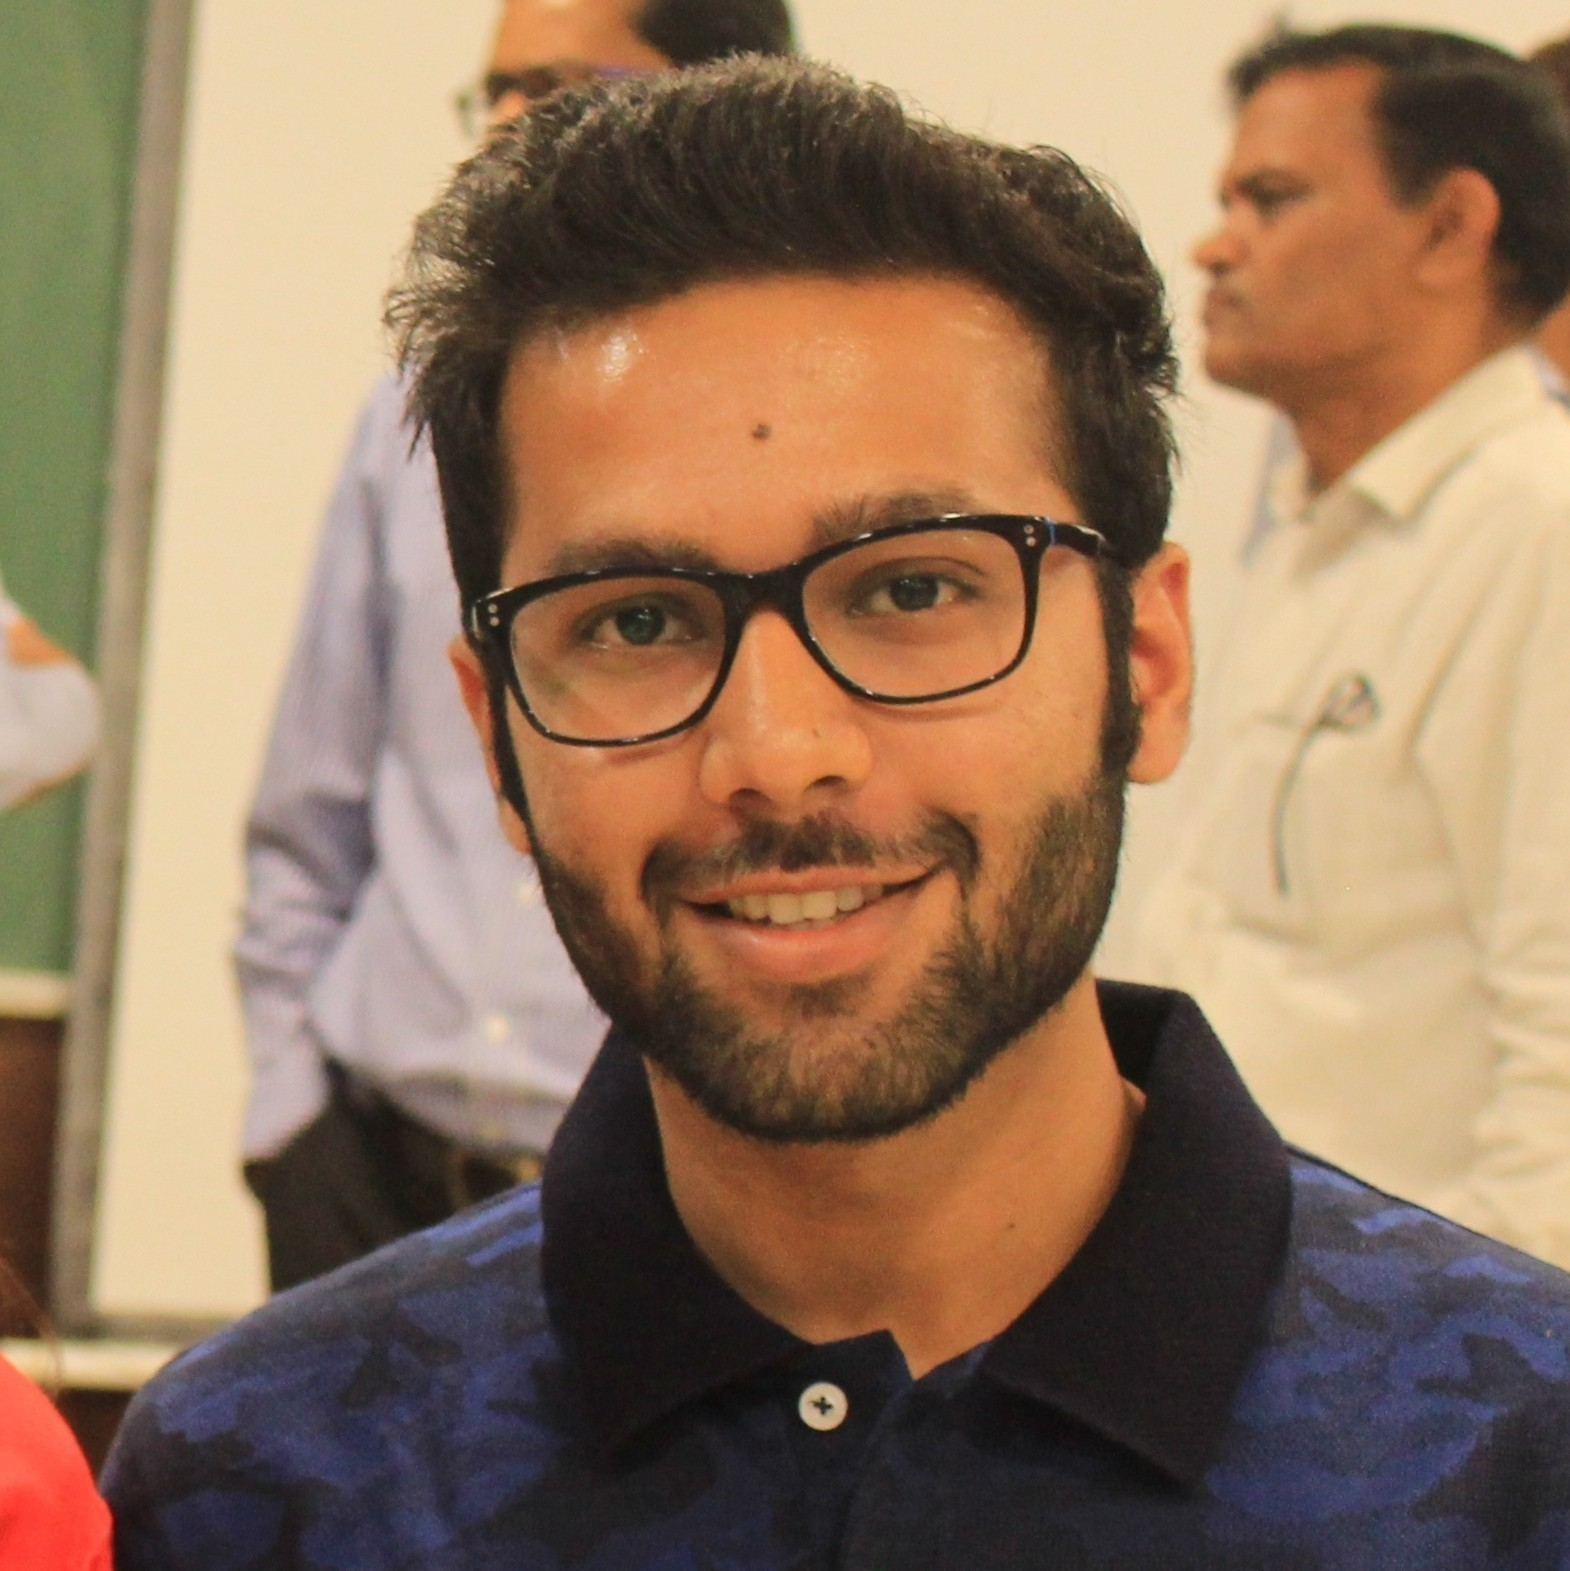
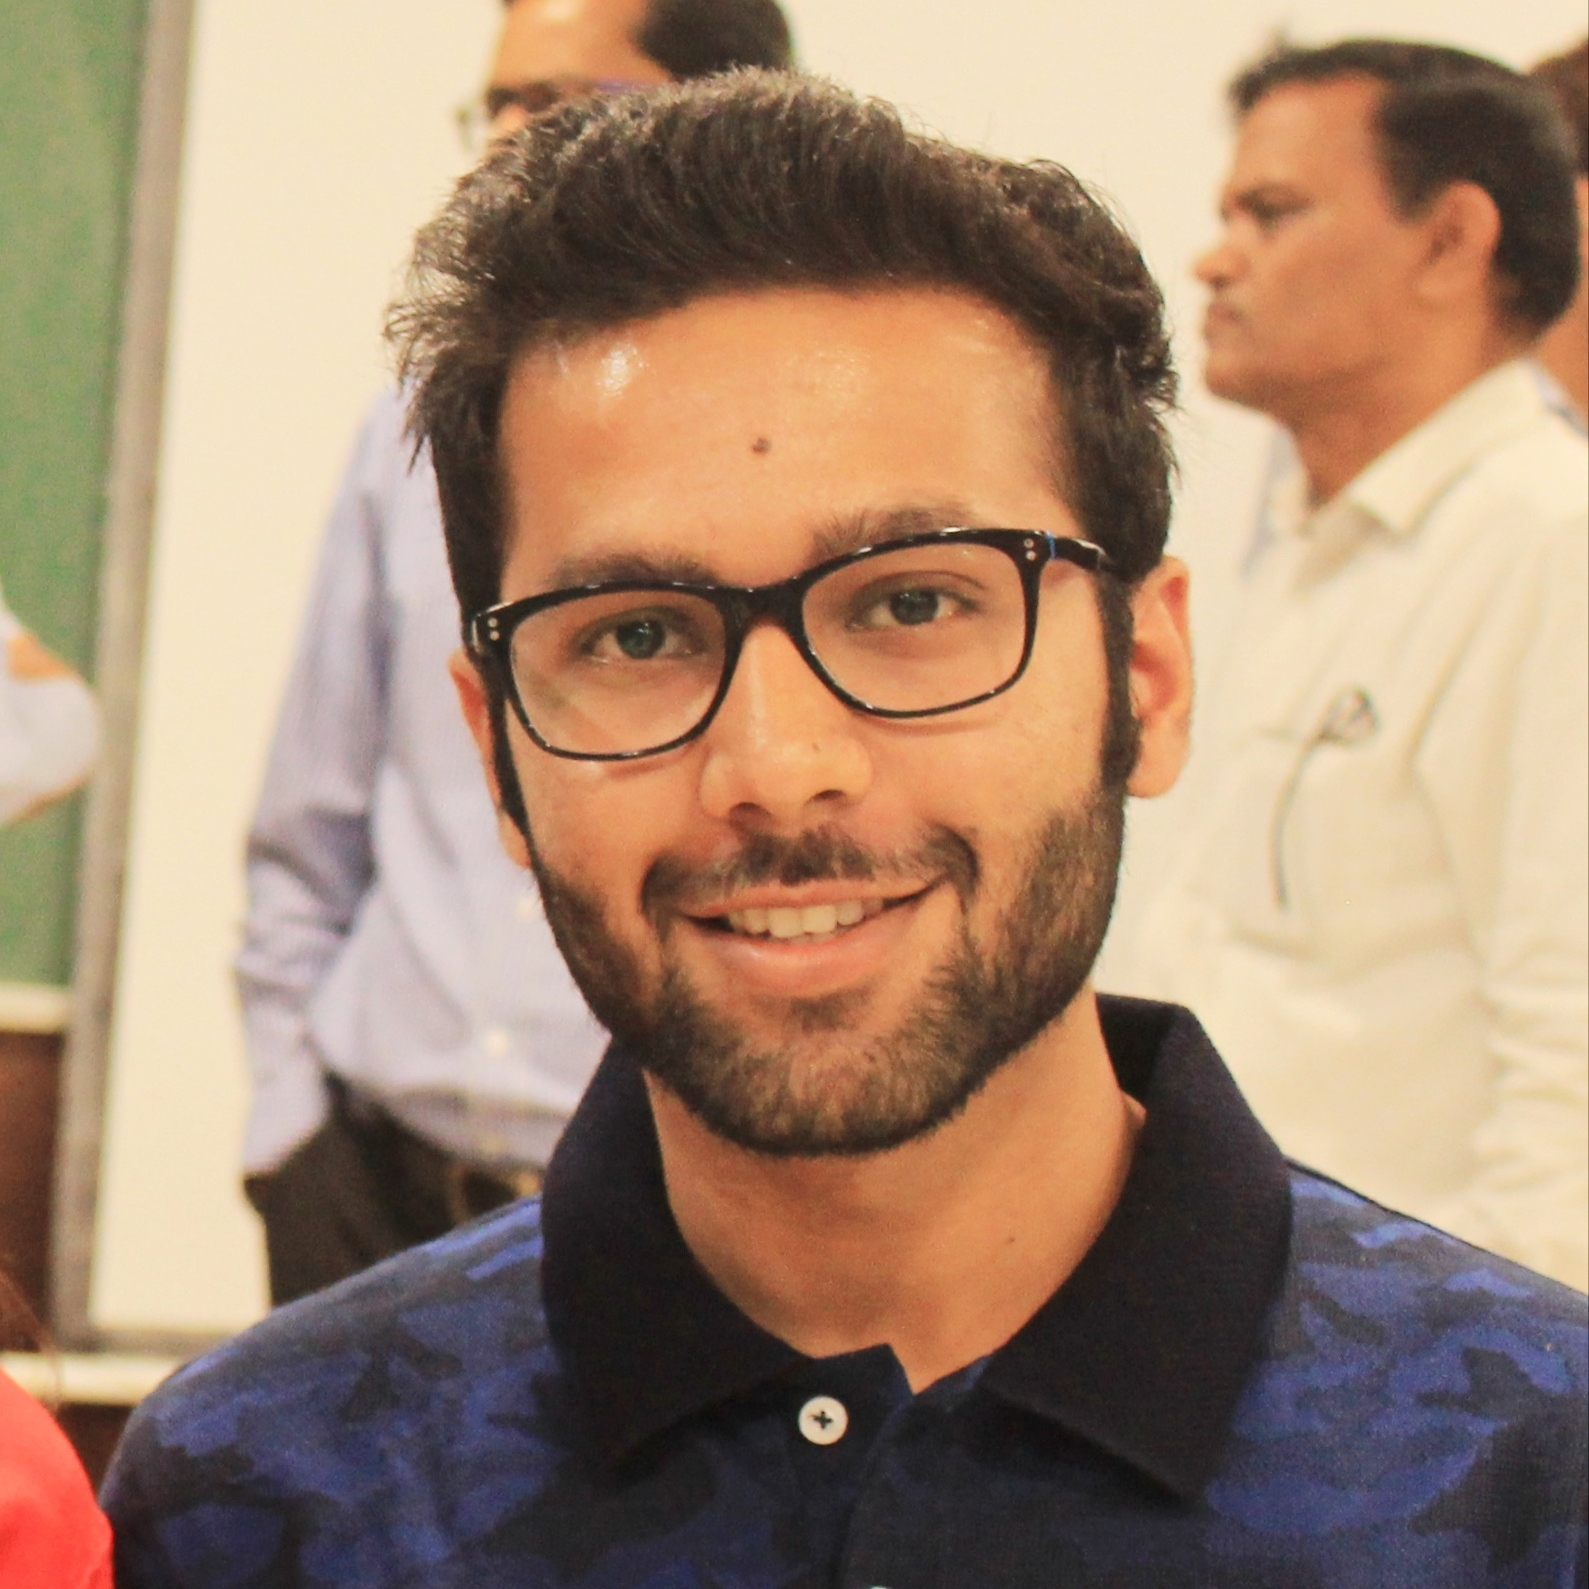
update agarwalrounak details

diff --git a/_data/agarwalrounak/agarwalrounak.md b/_data/agarwalrounak/agarwalrounak.md
@@ -1,7 +1,7 @@
 ---
 name: Rounak Agarwal
 institution: IIIT Jabalpur
-profile_pic: agarwalrounak.png
+profile_pic: agarwalrounak.jpg
 quote: Leave your comfort zone unless it's your home and a pandemic is prevailing, then you better stay.
 github_user: agarwalrounak
 ---
